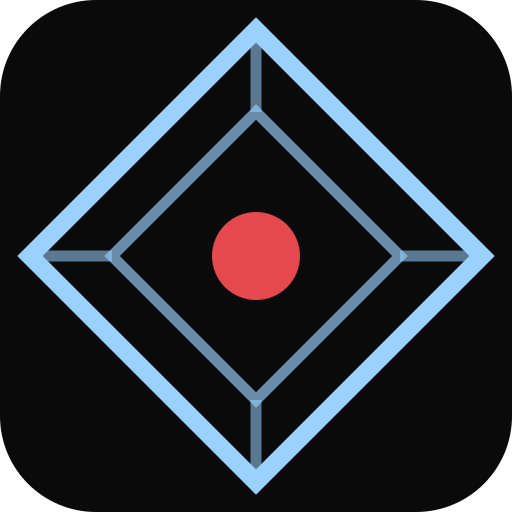
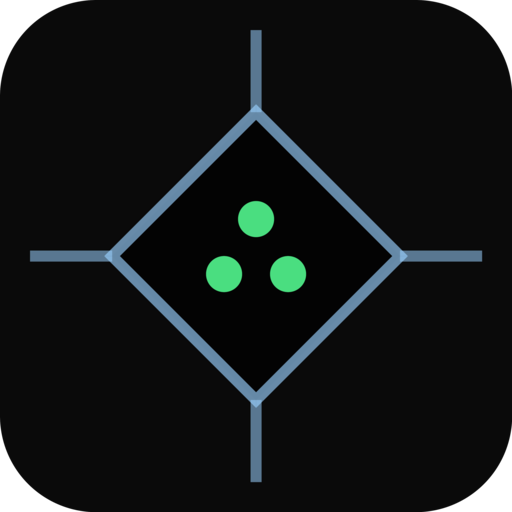
prepare v1 for Apple Store

Changed region(s): [[0.0312, 0.0312, 0.9688, 0.9688], [0.4062, 0.375, 0.5938, 0.5938]]

diff --git a/src/lib/recorder/geolocation.ts b/src/lib/recorder/geolocation.ts
@@ -1,20 +1,21 @@
 // Geolocation abstraction.
-// - Native (Capacitor): uses @capacitor/geolocation → proper iOS permission prompt
-// - Web: uses navigator.geolocation
+// - Native (Capacitor iOS): uses @capacitor/geolocation — CLLocationManager with proper
+//   "When In Use" dialog. Requires NSLocationWhenInUseUsageDescription in Info.plist.
+// - Web / PWA: uses navigator.geolocation directly.
 
 import { isNative } from '$lib/platform';
-import { EigenAudio } from '$lib/plugins/eigenAudio';
+import { Geolocation } from '@capacitor/geolocation';
 
 export interface GeoPosition {
-  latitude: number;
+  latitude:  number;
   longitude: number;
-  accuracy: number;
+  accuracy:  number;
   timestamp: number;
 }
 
 export interface GeolocationResult {
   position: GeoPosition | null;
-  error: string | null;
+  error:    string | null;
 }
 
 export async function getCurrentPosition(): Promise<GeolocationResult> {
@@ -26,14 +27,22 @@ export async function getCurrentPosition(): Promise<GeolocationResult> {
 
 async function getNativePosition(): Promise<GeolocationResult> {
   try {
-    // Request permission via EigenAudioPlugin (uses CLLocationManager — proper "While Using" dialog)
-    const perm = await EigenAudio.requestLocationPermission();
-    if (!perm.granted) {
+    const perm = await Geolocation.requestPermissions();
+    if (perm.location !== 'granted' && perm.coarseLocation !== 'granted') {
       return { position: null, error: 'Location permission denied' };
     }
-    const loc = await EigenAudio.getLocation();
+    const pos = await Geolocation.getCurrentPosition({
+      enableHighAccuracy: false,
+      timeout: 10000,
+      maximumAge: 300_000,
+    });
     return {
-      position: { latitude: loc.latitude, longitude: loc.longitude, accuracy: loc.accuracy, timestamp: loc.timestamp },
+      position: {
+        latitude:  pos.coords.latitude,
+        longitude: pos.coords.longitude,
+        accuracy:  pos.coords.accuracy,
+        timestamp: pos.timestamp,
+      },
       error: null,
     };
   } catch (err) {
@@ -57,7 +66,7 @@ function getWebPosition(): Promise<GeolocationResult> {
         error: null,
       }),
       (err) => resolve({ position: null, error: err.message }),
-      { enableHighAccuracy: false, timeout: 14000, maximumAge: 300000 }
+      { enableHighAccuracy: false, timeout: 14000, maximumAge: 300_000 },
     );
   });
 }

diff --git a/src/routes/recorder/+page.svelte b/src/routes/recorder/+page.svelte
@@ -109,8 +109,8 @@
 </script>
 
 <svelte:head>
-  <title>Eigen Recorder — {isFr ? 'Enregistreur audio offline-first' : 'Offline-first audio recorder'}</title>
-  <meta name="description" content="{isFr ? 'Enregistreur audio intelligent pour Eigen Meeting. Offline-first, sync EigenVertex.' : 'Intelligent audio recorder for Eigen Meeting. Offline-first, EigenVertex sync.'}" />
+  <title>Eigen Meeting — {isFr ? 'Enregistreur audio offline-first' : 'Offline-first audio recorder'}</title>
+  <meta name="description" content="{isFr ? 'Capture audio intelligente pour Eigen Meeting. Offline-first, sync EigenVertex.' : 'Intelligent audio capture for Eigen Meeting. Offline-first, EigenVertex sync.'}" />
 </svelte:head>
 
 <main>
@@ -122,7 +122,7 @@
 
       <div class="hero-topbar">
         <div class="ev-wordmark">
-          <!-- Eigen Recorder logo — losange EigenVertex + point rouge REC -->
+          <!-- Eigen Meeting logo — EigenVertex diamond + 3 meeting dots -->
           <svg width="24" height="24" viewBox="0 0 28 28" fill="none" aria-hidden="true">
             <polygon points="14,1.7 26.3,14 14,26.3 1.7,14" stroke="#9ad1ff" stroke-width="1.5"/>
             <polygon points="14,6.2 21.8,14 14,21.8 6.2,14" stroke="#9ad1ff" stroke-width="0.9" opacity=".55"/>
@@ -130,9 +130,11 @@
             <line x1="21.8" y1="14" x2="26.3" y2="14" stroke="#9ad1ff" stroke-width="0.9" opacity=".55"/>
             <line x1="14"   y1="1.7" x2="14"  y2="6.2" stroke="#9ad1ff" stroke-width="0.9" opacity=".55"/>
             <line x1="14"   y1="21.8" x2="14" y2="26.3" stroke="#9ad1ff" stroke-width="0.9" opacity=".55"/>
-            <circle cx="14" cy="14" r="2.4" fill="#e5484d"/>
+            <circle cx="14"    cy="12"  r="1" fill="#4ade80"/>
+            <circle cx="12.27" cy="15"  r="1" fill="#4ade80"/>
+            <circle cx="15.73" cy="15"  r="1" fill="#4ade80"/>
           </svg>
-          <span>EIGEN RECORDER</span>
+          <span>EIGEN MEETING</span>
         </div>
         <ConnectionStatus online={store.isOnline} />
       </div>

diff --git a/src/lib/recorder/offlineStorage.ts b/src/lib/recorder/offlineStorage.ts
@@ -7,7 +7,7 @@ import type {
   OfflineManifest,
 } from './types';
 
-interface EigenRecorderDB extends DBSchema {
+interface EigenMeetingDB extends DBSchema {
   sessions: {
     key: string;
     value: LocalKnowledgeSession;
@@ -27,12 +27,12 @@ interface EigenRecorderDB extends DBSchema {
 const DB_NAME    = 'eigen-recorder';
 const DB_VERSION = 1;
 
-let _db: IDBPDatabase<EigenRecorderDB> | null = null;
+let _db: IDBPDatabase<EigenMeetingDB> | null = null;
 
-async function getDb(): Promise<IDBPDatabase<EigenRecorderDB>> {
+async function getDb(): Promise<IDBPDatabase<EigenMeetingDB>> {
   if (_db) return _db;
 
-  _db = await openDB<EigenRecorderDB>(DB_NAME, DB_VERSION, {
+  _db = await openDB<EigenMeetingDB>(DB_NAME, DB_VERSION, {
     upgrade(db) {
       const sessions = db.createObjectStore('sessions', { keyPath: 'local_session_id' });
       sessions.createIndex('by-status', 'status');
@@ -43,7 +43,7 @@ async function getDb(): Promise<IDBPDatabase<EigenRecorderDB>> {
       db.createObjectStore('chunks_data', { keyPath: 'local_chunk_id' });
     },
     blocked() {
-      console.warn('[EigenRecorder] IndexedDB blocked — another tab may have an older version open.');
+      console.warn('[EigenMeeting] IndexedDB blocked — another tab may have an older version open.');
     },
     blocking() {
       _db?.close();

diff --git a/ios/App/CapApp-SPM/Package.swift b/ios/App/CapApp-SPM/Package.swift
@@ -1,8 +1,7 @@
 // swift-tools-version: 5.9
 import PackageDescription
 
-// LOCAL PATH — managed by scripts/restore-package-swift.mjs
-// cap sync overwrites this; npm run cap:sync restores it automatically.
+// DO NOT MODIFY THIS FILE - managed by Capacitor CLI commands
 let package = Package(
     name: "CapApp-SPM",
     platforms: [.iOS(.v15)],
@@ -12,15 +11,16 @@ let package = Package(
             targets: ["CapApp-SPM"])
     ],
     dependencies: [
-        .package(name: "capacitor-swift-pm",
-                 path: "../../../.capacitor-spm/capacitor-swift-pm"),
+        .package(url: "https://github.com/ionic-team/capacitor-swift-pm.git", exact: "8.3.4"),
+        .package(name: "CapacitorGeolocation", path: "../../../node_modules/@capacitor/geolocation")
     ],
     targets: [
         .target(
             name: "CapApp-SPM",
             dependencies: [
                 .product(name: "Capacitor", package: "capacitor-swift-pm"),
-                .product(name: "Cordova",   package: "capacitor-swift-pm")
+                .product(name: "Cordova", package: "capacitor-swift-pm"),
+                .product(name: "CapacitorGeolocation", package: "CapacitorGeolocation")
             ]
         )
     ]

diff --git a/src/routes/settings/+page.svelte b/src/routes/settings/+page.svelte
@@ -117,9 +117,11 @@
           <line x1="21.8" y1="14" x2="26.3" y2="14" stroke="#9ad1ff" stroke-width="0.9" opacity=".55"/>
           <line x1="14"   y1="1.7" x2="14"  y2="6.2" stroke="#9ad1ff" stroke-width="0.9" opacity=".55"/>
           <line x1="14"   y1="21.8" x2="14" y2="26.3" stroke="#9ad1ff" stroke-width="0.9" opacity=".55"/>
-          <circle cx="14" cy="14" r="2.4" fill="#e5484d"/>
+          <circle cx="14"    cy="12"  r="1" fill="#4ade80"/>
+          <circle cx="12.27" cy="15"  r="1" fill="#4ade80"/>
+          <circle cx="15.73" cy="15"  r="1" fill="#4ade80"/>
         </svg>
-        <span class="brand-name">EIGEN RECORDER</span>
+        <span class="brand-name">EIGEN MEETING</span>
       </div>
 
       <div style="width: 64px; flex-shrink: 0;"></div>
@@ -323,7 +325,7 @@
       <!-- Footer -->
       <div class="version-footer">
         <div class="ev-brand"><span class="ev-dot"></span>EIGENVERTEX</div>
-        <div class="version-str">Eigen Recorder v0.1.0</div>
+        <div class="version-str">Eigen Meeting v0.1.0</div>
       </div>
 
     </div>

diff --git a/src/routes/+layout.svelte b/src/routes/+layout.svelte
@@ -7,6 +7,16 @@
   import { loadLang, langStore, t } from '$lib/i18n/index';
   import { page } from '$app/stores';
 
+  // vite-plugin-pwa does not auto-inject the manifest <link> or the SW
+  // registration script into SvelteKit's output (its HTML-transform hook
+  // never runs on adapter-static's prerendered app.html) — both must be
+  // wired up manually here, or Chrome never sees a valid PWA to install.
+  import { pwaInfo } from 'virtual:pwa-info';
+  import { useRegisterSW } from 'virtual:pwa-register/svelte';
+
+  const manifestLinkTag = pwaInfo?.webManifest?.linkTag ?? '';
+  useRegisterSW({ immediate: true });
+
   onMount(() => {
     loadConfig();
     initAuth();
@@ -29,6 +39,10 @@
     currentPath.startsWith('/recorder/new') ||
     currentPath.startsWith('/auth');
 </script>
+
+<svelte:head>
+  {@html manifestLinkTag}
+</svelte:head>
 
 <div class="app-shell">
   <slot />

diff --git a/src/app.html b/src/app.html
@@ -9,12 +9,12 @@
     <meta name="theme-color" content="#0a0a0a" />
     <meta name="apple-mobile-web-app-capable" content="yes" />
     <meta name="apple-mobile-web-app-status-bar-style" content="black-translucent" />
-    <meta name="apple-mobile-web-app-title" content="EigenRec" />
+    <meta name="apple-mobile-web-app-title" content="EigenMtg" />
     <meta name="mobile-web-app-capable" content="yes" />
     <link rel="preconnect" href="https://fonts.googleapis.com" />
     <link rel="preconnect" href="https://fonts.gstatic.com" crossorigin />
     <link href="https://fonts.googleapis.com/css2?family=Barlow:wght@400;500;600;700&family=Montserrat:wght@600;700;800&display=swap" rel="stylesheet" />
-    <title>Eigen Recorder</title>
+    <title>Eigen Meeting</title>
     %sveltekit.head%
   </head>
   <body data-sveltekit-preload-data="hover">

diff --git a/src/routes/recorder/offline/+page.svelte b/src/routes/recorder/offline/+page.svelte
@@ -39,9 +39,11 @@
           <line x1="21.8" y1="14" x2="26.3" y2="14" stroke="#9ad1ff" stroke-width="0.9" opacity=".55"/>
           <line x1="14"   y1="1.7" x2="14"  y2="6.2" stroke="#9ad1ff" stroke-width="0.9" opacity=".55"/>
           <line x1="14"   y1="21.8" x2="14" y2="26.3" stroke="#9ad1ff" stroke-width="0.9" opacity=".55"/>
-          <circle cx="14" cy="14" r="2.4" fill="#e5484d"/>
+          <circle cx="14"    cy="12"  r="1" fill="#4ade80"/>
+          <circle cx="12.27" cy="15"  r="1" fill="#4ade80"/>
+          <circle cx="15.73" cy="15"  r="1" fill="#4ade80"/>
         </svg>
-        <span class="brand-name">EIGEN RECORDER</span>
+        <span class="brand-name">EIGEN MEETING</span>
       </div>
 
       <div class="conn-badge" class:online={store.isOnline} class:offline={!store.isOnline}>

diff --git a/src/lib/components/RecorderMiniK7.svelte b/src/lib/components/RecorderMiniK7.svelte
@@ -100,9 +100,11 @@
         <line x1="21.8" y1="14" x2="26.3" y2="14" stroke="#9ad1ff" stroke-width="0.9" opacity=".55"/>
         <line x1="14"   y1="1.7" x2="14"  y2="6.2" stroke="#9ad1ff" stroke-width="0.9" opacity=".55"/>
         <line x1="14"   y1="21.8" x2="14" y2="26.3" stroke="#9ad1ff" stroke-width="0.9" opacity=".55"/>
-        <circle cx="14" cy="14" r="2.4" fill="#e5484d"/>
+        <circle cx="14"    cy="12"  r="1" fill="#4ade80"/>
+        <circle cx="12.27" cy="15"  r="1" fill="#4ade80"/>
+        <circle cx="15.73" cy="15"  r="1" fill="#4ade80"/>
       </svg>
-      <span class="brand-name">EIGEN RECORDER</span>
+      <span class="brand-name">EIGEN MEETING</span>
     </div>
 
     <div class="conn-badge" class:online={store.isOnline} class:offline={!store.isOnline}>

diff --git a/src/lib/components/SessionCreateLocal.svelte b/src/lib/components/SessionCreateLocal.svelte
@@ -71,9 +71,11 @@
         <line x1="21.8" y1="14" x2="26.3" y2="14" stroke="#9ad1ff" stroke-width="0.9" opacity=".55"/>
         <line x1="14"   y1="1.7" x2="14"  y2="6.2" stroke="#9ad1ff" stroke-width="0.9" opacity=".55"/>
         <line x1="14"   y1="21.8" x2="14" y2="26.3" stroke="#9ad1ff" stroke-width="0.9" opacity=".55"/>
-        <circle cx="14" cy="14" r="2.4" fill="#e5484d"/>
+        <circle cx="14"    cy="12"  r="1" fill="#4ade80"/>
+        <circle cx="12.27" cy="15"  r="1" fill="#4ade80"/>
+        <circle cx="15.73" cy="15"  r="1" fill="#4ade80"/>
       </svg>
-      <span class="brand-name">EIGEN RECORDER</span>
+      <span class="brand-name">EIGEN MEETING</span>
     </div>
 
     <div class="conn-badge" class:online={isOnline} class:offline={!isOnline}>

diff --git a/src/lib/auth/api.ts b/src/lib/auth/api.ts
@@ -33,7 +33,7 @@ export async function request<T>(
   // Guard: path must NOT include /v1 — getApiBase() already provides it.
   // A path like '/v1/knowledge-sessions/...' would produce /api/v1/v1/... in dev.
   if (import.meta.env.DEV && path.startsWith('/v1/')) {
-    console.error(`[EigenRecorder] request() path starts with /v1 — double prefix! Fix: remove /v1 from "${path}"`);
+    console.error(`[EigenMeeting] request() path starts with /v1 — double prefix! Fix: remove /v1 from "${path}"`);
   }
 
   let res: Response;

diff --git a/vite.config.ts b/vite.config.ts
@@ -39,9 +39,9 @@ export default defineConfig({
         runtimeCaching: []
       },
       manifest: {
-        name: 'Eigen Recorder',
-        short_name: 'EigenRec',
-        description: 'Eigen Meeting Audio Recorder — Offline-First',
+        name: 'Eigen Meeting',
+        short_name: 'EigenMtg',
+        description: 'Eigen Meeting — Offline-First Audio Capture',
         theme_color: '#0d1526',
         background_color: '#070c1a',
         display: 'standalone',
